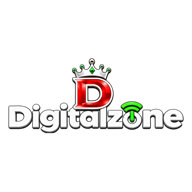
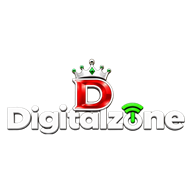
feat: add authentication, store management, navigation, and branding components

Changed region(s): [[0.0312, 0.2812, 0.9688, 0.7188]]

diff --git a/src/components/Navbar.tsx b/src/components/Navbar.tsx
@@ -131,17 +131,17 @@ const Navbar: React.FC = () => {
 
   return (
     <>
-      <header className="bg-slate-50/95 text-gray-900 shadow-xs border-b border-slate-200 sticky top-0 z-50 backdrop-blur-sm">
+      <header className="bg-slate-50/95 text-gray-900 border-b border-slate-200/80 sticky top-0 z-50 backdrop-blur-md">
         <div className="max-w mx-auto px-3 sm:px-4 md:px-6">
-          <div className="flex justify-between items-center py-2 sm:py-2.5 md:py-3">
-            <div className="flex items-center gap-2">
+          <div className="flex justify-between items-center py-2 sm:py-2.5">
+            <div className="flex items-center gap-2.5">
               <button
                 onClick={() => showNavigation && setShowSidebar(!showSidebar)}
-                className={`h-9 sm:h-10 w-auto flex items-center justify-center px-2 py-0.5 rounded-xl bg-slate-100/90 hover:bg-slate-200/80 border border-slate-200/90 shadow-xs ${showNavigation ? 'cursor-pointer' : 'cursor-default'} transition-all duration-200`}
+                className={`h-8 sm:h-9 flex items-center justify-center ${showNavigation ? 'cursor-pointer hover:opacity-80 active:scale-95' : 'cursor-default'} transition-all duration-150`}
                 title={showNavigation ? "Open Navigation Menu" : "Check in to enable navigation"}
                 disabled={!showNavigation}
               >
-                <img src={logo} alt="Logo" className="h-full w-auto max-w-[110px] object-contain drop-shadow-[0_2px_4px_rgba(0,0,0,0.35)]" />
+                <img src={logo} alt="Logo" className="h-full w-auto max-w-[120px] object-contain" />
               </button>
               <div>
                 <h1 className="m-0 text-sm sm:text-base md:text-xl font-bold text-gray-900 leading-tight">{currentHub?.name || 'Digital Zone'}</h1>
@@ -244,14 +244,12 @@ const Navbar: React.FC = () => {
         className={`fixed top-0 left-0 h-full w-80 bg-white shadow-2xl z-[70] transform transition-transform duration-300 ease-in-out ${showSidebar ? 'translate-x-0' : '-translate-x-full'
           }`}
       >
-        <div className="flex items-center justify-between p-6 border-b border-slate-200 bg-gradient-to-r from-slate-100 via-slate-50 to-red-50/20">
+        <div className="flex items-center justify-between px-6 py-5 border-b border-slate-200/80 bg-slate-50">
           <div className="flex items-center gap-3">
-            <div className="h-11 w-auto flex items-center p-1.5 rounded-xl bg-slate-100/90 border border-slate-200 shadow-xs">
-              <img src={logo} alt="Logo" className="h-full w-auto max-w-[110px] object-contain drop-shadow-[0_2px_4px_rgba(0,0,0,0.35)]" />
-            </div>
+            <img src={logo} alt="Logo" className="h-9 w-auto object-contain" />
             <div>
-              <h2 className="m-0 text-lg font-bold text-gray-900">Digital Zone</h2>
-              <p className="m-0 text-xs text-gray-600">Navigation Menu</p>
+              <h2 className="m-0 text-base font-bold text-gray-900 leading-tight">Digital Zone</h2>
+              <p className="m-0 text-xs text-gray-500">Navigation Menu</p>
             </div>
           </div>
           <button

diff --git a/src/components/Login.tsx b/src/components/Login.tsx
@@ -41,19 +41,17 @@ const Login: React.FC = () => {
   };
 
   return (
-    <div className="flex justify-center items-center min-h-screen bg-slate-100/70 p-4">
-      <div className="bg-white p-8 sm:p-10 rounded-2xl shadow-xl w-full max-w-md border border-slate-200">
+    <div className="flex justify-center items-center min-h-screen bg-slate-50 p-4">
+      <div className="bg-white p-8 sm:p-10 rounded-2xl shadow-sm w-full max-w-md border border-slate-200/80">
         {/* Logo and Business Name */}
         <div className="flex flex-col items-center mb-8">
-          <div className="p-3 mb-4 rounded-2xl bg-slate-50 border border-slate-200/90 shadow-xs flex items-center justify-center">
-            <img
-              src={logo}
-              alt="Digital Zone Logo"
-              className="h-16 sm:h-20 w-auto max-w-[260px] object-contain drop-shadow-[0_2px_4px_rgba(0,0,0,0.35)]"
-            />
-          </div>
-          <h1 className="text-center text-slate-900 mb-1 text-3xl font-bold tracking-tight">Digital Zone</h1>
-          <p className="text-center text-slate-500 text-sm font-medium mb-3">Sales | Service | Accessory</p>
+          <img
+            src={logo}
+            alt="Digital Zone"
+            className="h-16 sm:h-20 w-auto max-w-[240px] object-contain mb-4"
+          />
+          <h1 className="text-center text-slate-900 text-2xl font-bold tracking-tight">Digital Zone</h1>
+          <p className="text-center text-slate-500 text-xs font-medium mt-1 mb-4">Sales | Service | Accessory</p>
           <h2 className="text-center text-slate-400 text-xs font-semibold uppercase tracking-wider">Login</h2>
         </div>
 

diff --git a/src/pages/Settings.tsx b/src/pages/Settings.tsx
@@ -501,12 +501,12 @@ const Settings: React.FC = () => {
                 </div>
 
                 {/* Logo Section */}
-                <div className="flex items-center gap-6 pb-6 border-b border-slate-100">
-                  <div className="h-20 sm:h-24 w-36 sm:w-44 rounded-2xl border border-slate-200 bg-slate-50 p-3 flex items-center justify-center shadow-xs">
+                <div className="flex items-center gap-5 pb-6 border-b border-slate-100">
+                  <div className="h-16 w-32 rounded-xl border border-slate-200 bg-slate-50/70 p-2 flex items-center justify-center">
                     <img
                       src={shopLogo}
                       alt="Shop Logo"
-                      className="max-w-full max-h-full object-contain drop-shadow-[0_2px_4px_rgba(0,0,0,0.35)]"
+                      className="max-w-full max-h-full object-contain"
                     />
                   </div>
                   <div>

diff --git a/src/components/ProductLabel.tsx b/src/components/ProductLabel.tsx
@@ -429,7 +429,7 @@ const ProductLabel: React.FC<ProductLabelProps> = ({ product, products, shopDeta
                           <img
                             src={logoDataUrl || logo}
                             alt="Logo"
-                            className="object-contain w-auto max-w-[28px] h-[19px] drop-shadow-[0_1px_2px_rgba(0,0,0,0.35)]"
+                            className="object-contain w-auto max-w-[28px] h-[19px]"
                           />
                           <div className="font-semibold text-[7.5px] uppercase truncate text-gray-700">
                             {shopDetails?.shopName || 'Digital Zone'}

diff --git a/src/components/PrintServiceQRLabelsModal.tsx b/src/components/PrintServiceQRLabelsModal.tsx
@@ -680,7 +680,7 @@ export default function PrintServiceQRLabelsModal({
                       <img
                         src={logoDataUrl || logo}
                         alt="Logo"
-                        className="object-contain w-auto max-w-[28px] h-[18px] drop-shadow-[0_1px_2px_rgba(0,0,0,0.35)]"
+                        className="object-contain w-auto max-w-[28px] h-[18px]"
                       />
                       <div className="font-extrabold text-[9px] uppercase truncate text-slate-800">
                         {shopName}
